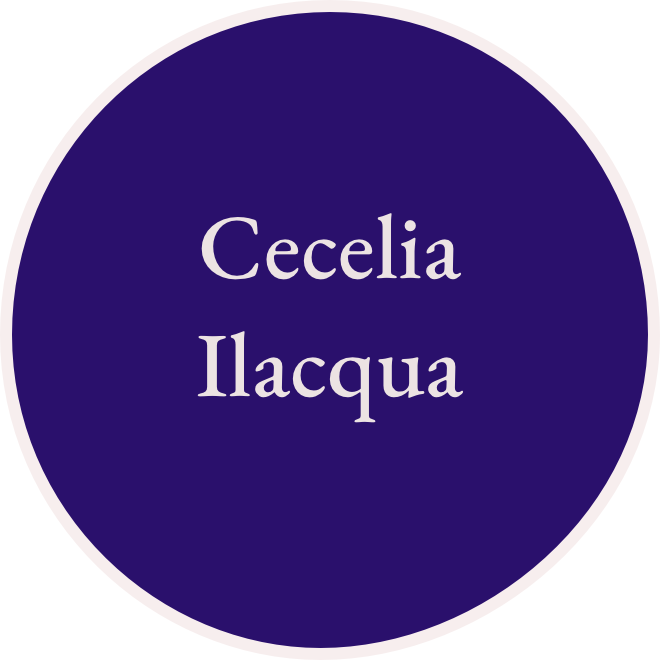
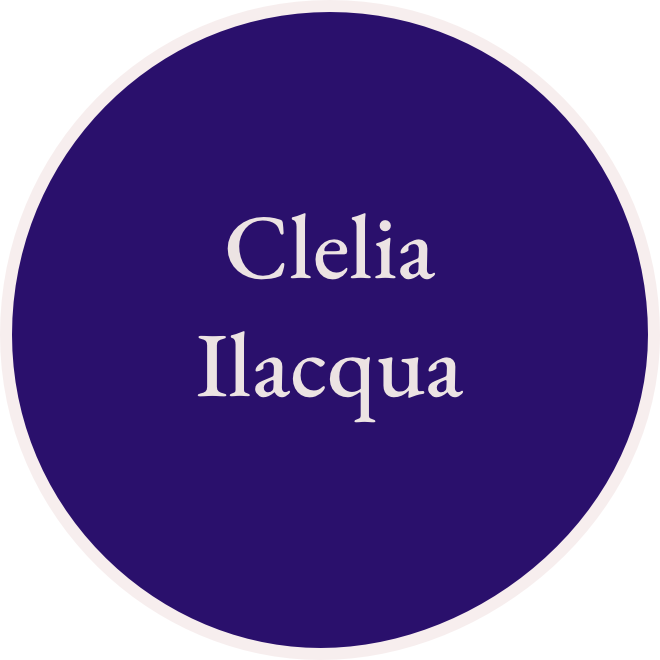
Changes names in several locations and files

Changed region(s): [[0.303, 0.303, 0.697, 0.4242]]

diff --git a/index.html b/index.html
@@ -45,7 +45,7 @@
           <svg xmlns="http://www.w3.org/2000/svg" width="24" height="24" viewBox="0 0 24 24" fill="none" stroke="currentColor" stroke-width="2" stroke-linecap="round" stroke-linejoin="round" class="feather feather-play-circle"><circle cx="12" cy="12" r="10"></circle><polygon points="10 8 16 12 10 16 10 8"></polygon></svg>
         </a>
      </div>
-      <div id="splash-bottom"></div>
+      <!-- <div id="splash-bottom"></div> -->
       <div id="splash-top"></div>
     </section>
     <section id="history">
@@ -64,7 +64,7 @@
       <p>The following people shared their stories about the circle. Click on a person to read their full story.</p>
       <div class="voices-wrap">
         <button class="voice-card">
-          <h4>Phil Arnold</h4>
+          <h4>Phillip P. Arnold</h4>
           <figure class="collapse">
             <audio
               controls
@@ -159,7 +159,7 @@
             </figure>
         </button><!--end.card-->
         <button class="voice-card">
-          <h4>Cecelia Ilacqua</h4>
+          <h4>Clelia Ilacqua</h4>
           <figure class="collapse">
             <audio
               controls
